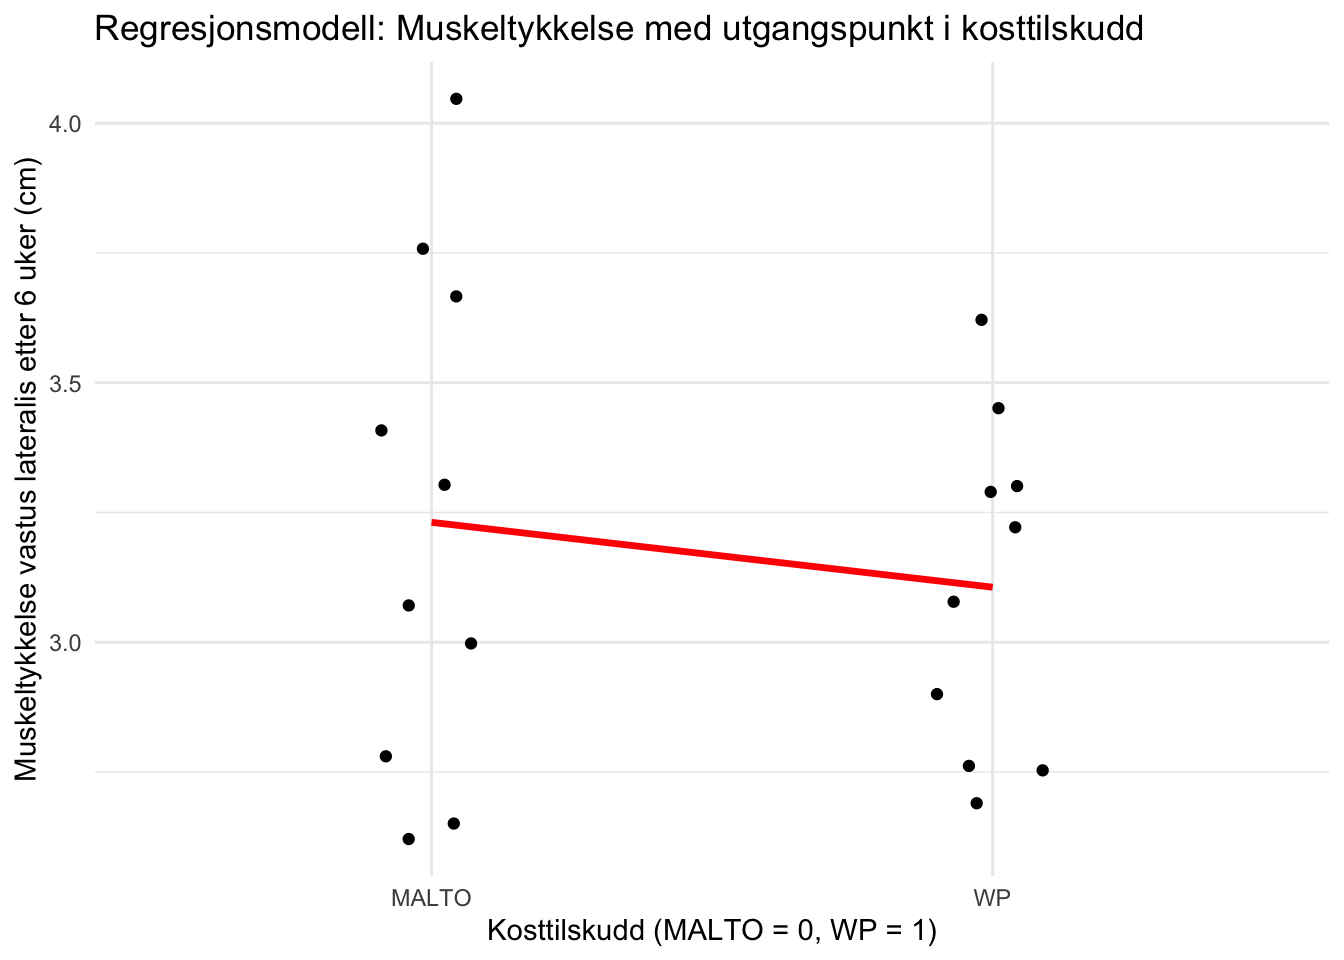
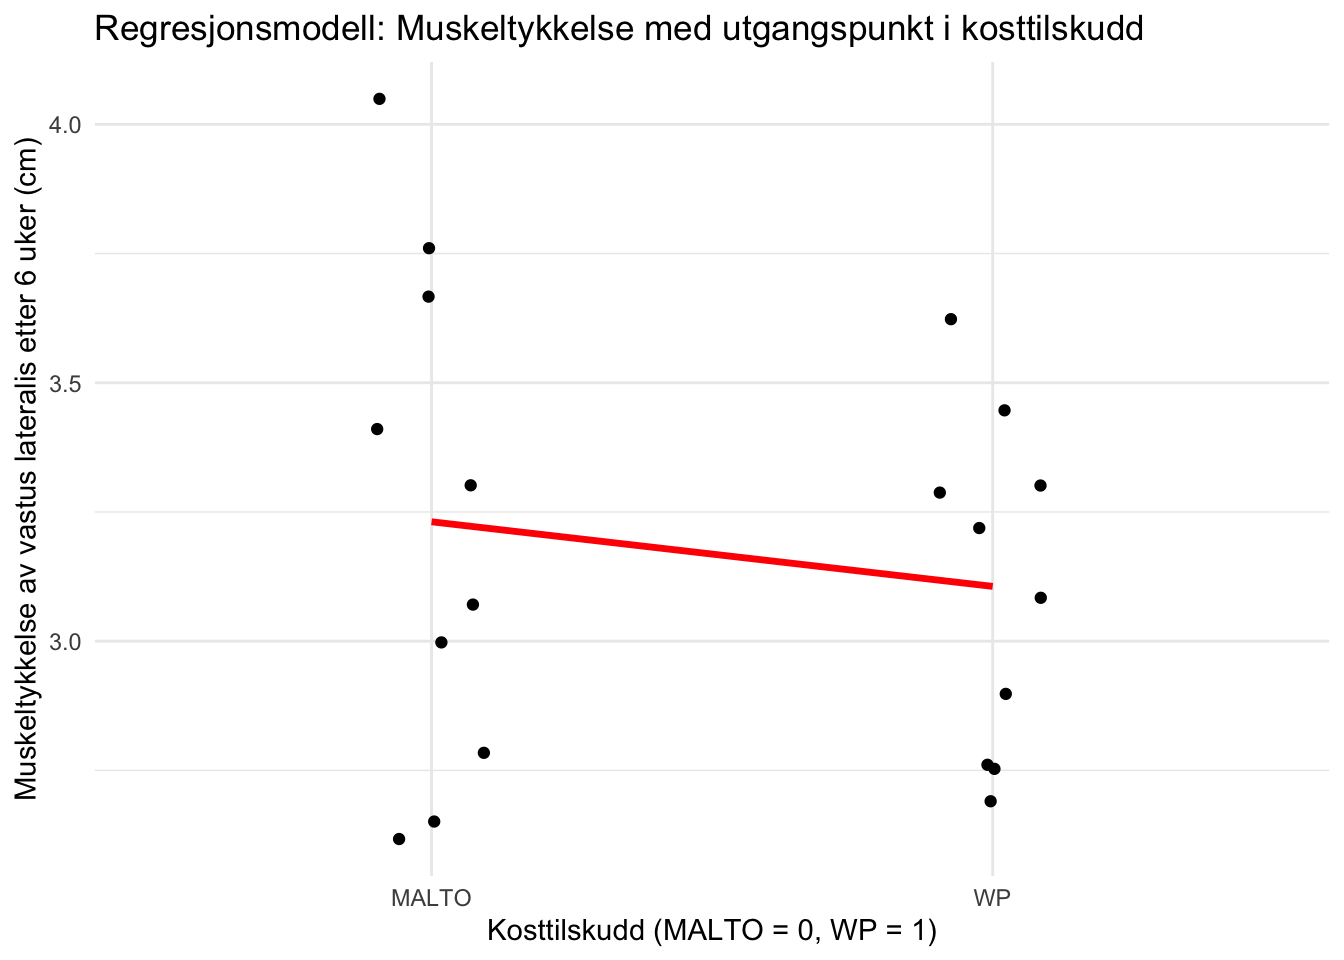
Lagt inn alle figurer

diff --git a/Arbeidskrav3.html b/Arbeidskrav3.html
@@ -86,18 +86,7 @@ ul.task-list li input[type="checkbox"] {
 <section id="arbeidskrav-3" class="level2">
 <h2 class="anchored" data-anchor-id="arbeidskrav-3">Arbeidskrav 3</h2>
 <p>Oppgave 1.1:</p>
-<p>En kontinuerlig variabel baserer seg på målinger vi gjør, slik som for eksmpel tid, avstand eller temperatur, der verdiene ligger på en kontinuerlig skala og kan ta en hvilken som helst verdi innenfor et gitt intervall. Kontinuerlige variabler kan gi høy presjon på grunn av sin evne til å bruke uendelig antall desimaler (Spiegelhalter, 2019, s. 46).</p>
-<p>Når man undersøker sammenhengen mellom to kontinuerlige variabler i en regresjonsmodell, så bruker man oftest det som kalles enkel lineær regresjon. Med enkel lineær regresjon så handler det om å finne en rett linje som passer best til et sett med punkter, der residualene (avviket mellom det observerte og det forventede) blir minst mulig. Enkel lineær regresjon bruker en uavhengig variabel (x) til å forutsi eller forklare en avhengig variabel (y). Forholdet mellom variablene uttrykkes gjennom den matematiske formelen:</p>
-<p>Y<sub>i</sub> &nbsp;= b<sub>0</sub> + b<sub>1</sub>X<sub>i</sub></p>
-<p>Analysen under er et praktisk eksempel på en regresjonsmodell og tar utgangspunkt i datasettet <em>hypertrophy</em>, en studie gjort av Haun et al.&nbsp;fra 2019. &nbsp;Analysen forsøker å se sammenhengen mellom en utøvers prosentandel av type II-muskelfibre ved oppstart (PERCENT_TYPE_II_T1) og tykkelsen på vastus lateralis etter 6 uker med trening (VL_T3).</p>
-<p>Analysen i R ga følgende estimerte regresjonsformel:</p>
-<p>Muskeltykkelse (y) = 2.81 + 0.0058 * (prosentandel type II-fibre).</p>
-<p>I eksempelet over er Pearsons korrelasjonskoeffisient funnet til å være 0.19, som gir en beskrivelse på styrken og retningen av den lineære sammenhengen. Tallet er nærme 0 og står skrevet med positivt fortegn, det vil si at det kun er en svak positiv korrelasjon mellom variablene. Dersom man ønsker å se den faktiske effekten som muskelfibertype har på muskeltykkelse etter en treningsintervensjon, må man se på regresjonsestimatet. Regresjonsestimatet forsøker å forklare forholdet mellom to variabler, og sier noe om hvor stor endring man får i gjennomsnitt i y når x endrer seg med 1 enhet (Spiegelhalter, 2019, s. 126). Regresjonsestimatet, det vil si stigningstallet, er her 0.0058. Det betyr at for hvert prosentpoeng høyere andel av type II-muskelfibre en utøver har ved oppstart, er det er forventet økning i gjennomsnitt med 0.0058 cm tykkelse av vastus lateralis. Skjæringspunktet (b<sub>0</sub> = 2.81) sier noe om muskeltykkelse i tilfelle x = 0, det vil si 0% type II-muskelfibre. Siden alle mennesker biologisk sett aldri har 0% type II-muskelfibre, blir dette bare en matematisk konstant for å plassere linjen i diagrammet og ikke en reell fysiologisk verdi.</p>
-<p>Både korrelasjonskoeffisienten og regresjonsestimatet beskriver den underliggende lineære sammenhengen i dataene, og de vil alltid dele retning. Dette vises ved likt fortegn. Der korrelasjonskoeffisienten er et standardisert mål mellom -1 og 1 som ikke tar hensyn til enheter, vil regresjonsestimatet vise effekt målt i dataenes egne enheter.</p>
 <div class="cell">
-<div class="cell-output cell-output-stdout">
-<pre><code>[1] 0.1866572</code></pre>
-</div>
 <div class="cell-output-display">
 <div>
 <figure class="figure">
@@ -107,10 +96,6 @@ ul.task-list li input[type="checkbox"] {
 </div>
 </div>
 <p>Oppgave 1.2</p>
-<p>En kategorisk variabel defineres som en variabel som kan deles inn i to eller flere distinkte grupper eller kategorier (Spiegelhalter, 2019, s. 27). Typiske eksempler på slike variabler kan være kjønn, farger eller ulike typer kosttilskudd brukt i forskning på treningseffekt, i likhet med det som er gjort i <em>hypertrophy.</em></p>
-<p>Statistikkprogram klarer ikke å regne med merkelapper eller tekst, og er derfor avhengig å omgjøre fra tekst til tall. Når man inkluderer en kategorisk variabel i en regresjonsmodell, tar man i bruk dummyvariabler. Det vil si at programmet tilegner den ene gruppen verdien 0 (referansegruppe) og den andre gruppen verdien 1 (sammenligningsgruppe). Regresjonsmodellen vil følge samme matematiske formel som i oppgave 1.1 med Yi som muskeltykkelse av vastus lateralis, b<sub>0</sub> som modellens skjæringspunkt), b<sub>1</sub> som regresjonsestimatet og X<sub>i</sub> som dummyvariabelen. b<sub>0</sub> vil med andre ord være referansegruppens gjennomsnittlige muskeltykkelse av vastus lateralis etter 6 uker treningsintervensjon.</p>
-<p>Y<sub>i</sub> &nbsp;= b<sub>0</sub> + b<sub>1</sub>X<sub>i</sub></p>
-<p>Et praktisk eksempel på dette er sammenhengen mellom den kontinuerlige avhengige variabelen «muskeltykkelse på vastus lateralis etter 6 uker» (VL_T3) og den kategoriske uavhengige variabelen «kosttilskudd» (GROUP) i datasettet <em>hypertrophy</em>, hvor dataene er filtrert til å kun omhandle karbohydratgruppen (MALTO) og proteingruppen (WP).</p>
 <div class="cell">
 <div class="cell-output-display">
 <div>
@@ -120,12 +105,7 @@ ul.task-list li input[type="checkbox"] {
 </div>
 </div>
 </div>
-<p>Analysen i R ga følgende estimerte regresjonsformel:</p>
-<p>&nbsp;&nbsp;&nbsp;&nbsp;&nbsp;&nbsp;&nbsp;&nbsp;&nbsp;&nbsp;&nbsp;&nbsp;&nbsp;&nbsp;&nbsp; Muskeltykkelse (y<sub>i</sub>) = 3.2310 – 0.1250 * (dummyvariabel)</p>
-<p>Dummyvariabelen for referansegruppen (MALTO) = 0. Det vil si at skjæringspunktet (B0) er den gjennomsnittlige muskeltykkelsen for referansegruppen. Så analysen over forteller oss at utøverne som brukte karbohydrater hadde en gjennomsnittlig muskeltykkelse på 3.23 cm etter treningsperioden. Det negative regresjonsestimatet på -0.1250 forteller oss at utøverne som brukte proteinpulver (WP) hadde i gjennomsnitt 0.125 cm mindre muskeltykkelse enn utøverne i referansegruppen.</p>
 <p>Oppgave 1.3</p>
-<p>Vanlig lineær regresjon tar utgangspunkt i at dataene følger en normalfordeling. I et tilfelle hvor den avhengige variabelen er enten 0 eller 1, er man over på det som omtales som binomialfordeling hvor man kun har to mulige utfall. Da tar man i bruk en generalisert lineær modell, som åpner muligheten for å gjøre analyser på data som ikke er normalfordelt.</p>
-<p>Datasettet <em>hypertrophy</em> er tatt i bruk for å visualisere dette og spørsmålet som ble stilt var: «Kan vi bruke type II muskelfiber hos utøverne ved oppstart for å forutsi om utøverne får god (HIGH) eller dårlig (LOW) respons med tanke på muskelvekst etter treningsintervensjon?».</p>
 <div class="cell">
 <div class="cell-output-display">
 <div>
@@ -134,32 +114,87 @@ ul.task-list li input[type="checkbox"] {
 </figure>
 </div>
 </div>
+</div>
+<p>Oppgave 2.1</p>
+<div class="cell">
+<div class="cell-output-display">
+<div>
+<figure class="figure">
+<p><img src="Arbeidskrav3_files/figure-html/unnamed-chunk-4-1.png" class="img-fluid figure-img" width="672"></p>
+</figure>
+</div>
+</div>
+</div>
+<p>Oppgave 2.2.</p>
+<div class="cell" data-layout-align="center">
+<div class="cell-output-display">
+<div class="quarto-figure quarto-figure-center">
+<figure class="figure">
+<p><img src="Arbeidskrav3_files/figure-html/unnamed-chunk-5-1.png" class="img-fluid figure-img" width="672"></p>
+<figcaption>Utvalget er filtrert til å omhandle deltakerne i single-sett gruppen ved post-test</figcaption>
+</figure>
+</div>
+</div>
+</div>
+<p>Oppgave 2.3</p>
+<div class="cell">
+<div class="cell-output-display">
+<div>
+<figure class="figure">
+<p><img src="Arbeidskrav3_files/figure-html/unnamed-chunk-6-1.png" class="img-fluid figure-img" width="672"></p>
+</figure>
+</div>
+</div>
+</div>
+<div class="cell">
 <div class="cell-output cell-output-stdout">
 <pre><code>
 Call:
-glm(formula = CLUSTER ~ PERCENT_TYPE_II_T1, family = binomial(link = "logit"), 
-    data = dat_hypertrophy)
+lm(formula = legext ~ legpress * sex, data = strengthvolume_filt)
+
+Residuals:
+    Min      1Q  Median      3Q     Max 
+-24.334  -9.179  -2.448   5.850  28.935 
 
 Coefficients:
-                   Estimate Std. Error z value Pr(&gt;|z|)
-(Intercept)        -2.41257    1.95356  -1.235    0.217
-PERCENT_TYPE_II_T1  0.04387    0.03427   1.280    0.200
+                  Estimate Std. Error t value Pr(&gt;|t|)  
+(Intercept)      37.306077  14.830915   2.515   0.0179 *
+legpress          0.150893   0.064332   2.346   0.0263 *
+sexmale          22.299020  21.603681   1.032   0.3108  
+legpress:sexmale -0.001796   0.085438  -0.021   0.9834  
+---
+Signif. codes:  0 '***' 0.001 '**' 0.01 '*' 0.05 '.' 0.1 ' ' 1
 
-(Dispersion parameter for binomial family taken to be 1)
-
-    Null deviance: 27.726  on 19  degrees of freedom
-Residual deviance: 25.817  on 18  degrees of freedom
-AIC: 29.817
-
-Number of Fisher Scoring iterations: 4</code></pre>
+Residual standard error: 12.78 on 28 degrees of freedom
+  (7 observations deleted due to missingness)
+Multiple R-squared:  0.6567,    Adjusted R-squared:  0.6199 
+F-statistic: 17.86 on 3 and 28 DF,  p-value: 1.127e-06</code></pre>
 </div>
+<div class="cell-output-display">
+<div>
+<figure class="figure">
+<p><img src="Arbeidskrav3_files/figure-html/unnamed-chunk-7-1.png" class="img-fluid figure-img" width="672"></p>
+</figure>
+</div>
+</div>
+</div>
+<p>Oppgave 2.4.</p>
+<div class="cell">
 <div class="cell-output cell-output-stdout">
-<pre><code>[1] 1.044847</code></pre>
+<pre><code>      fit      lwr      upr
+1 81.9696 51.42947 112.5097</code></pre>
 </div>
 </div>
-<p>Av analysen får vi et rå-estimat på 0.04387. Rå-estimatet oppgis i log-odds, som gir lite mening når man forsøker å tolke det biologisk. Derfor regner vi dette rå-estimatet om til en odds-ratio (OR), som gir oss et forholdstall som viser prosentvis endring i odds. I eksempelet blir dette e<sup>0.04387</sup> = 1.045. Dette forteller oss at sjansen for å bli en «high-responder» øker med 4.5% for hver enhet den uavhengige variabelen øker. I dette tilfellet hver 1% økning av andelen type II-muskelfiber hos utøveren ved oppstart. Effekten er ikke statistisk signifikant, vist ved p-verdi = 0.200, men det viser en naturlig tendens.</p>
-<p>Siden den avhengige variabelen er binær (0 eller 1), kan vi ikke bruke en vanlig rett linje. Link-funksjon (logit) gjør om den rette linjen til en S-kurve, slik at modellen alltid holder seg innenfor 0% og 100%. Dette er viktig for at modellen ikke skal produsere tall som ikke gir biologisk eller statistisk mening i form av umulige sannsynligheter.</p>
-<p>Figuren viser at gruppen med «high-responders» generelt har en høyere prosentandel type II-muskelfibre ved oppstart. &nbsp;</p>
+<p>Oppgave 3.1.</p>
+<div class="cell">
+<div class="cell-output-display">
+<div>
+<figure class="figure">
+<p><img src="Arbeidskrav3_files/figure-html/unnamed-chunk-9-1.png" class="img-fluid figure-img" width="672"></p>
+</figure>
+</div>
+</div>
+</div>
 </section>
 
 </main>
